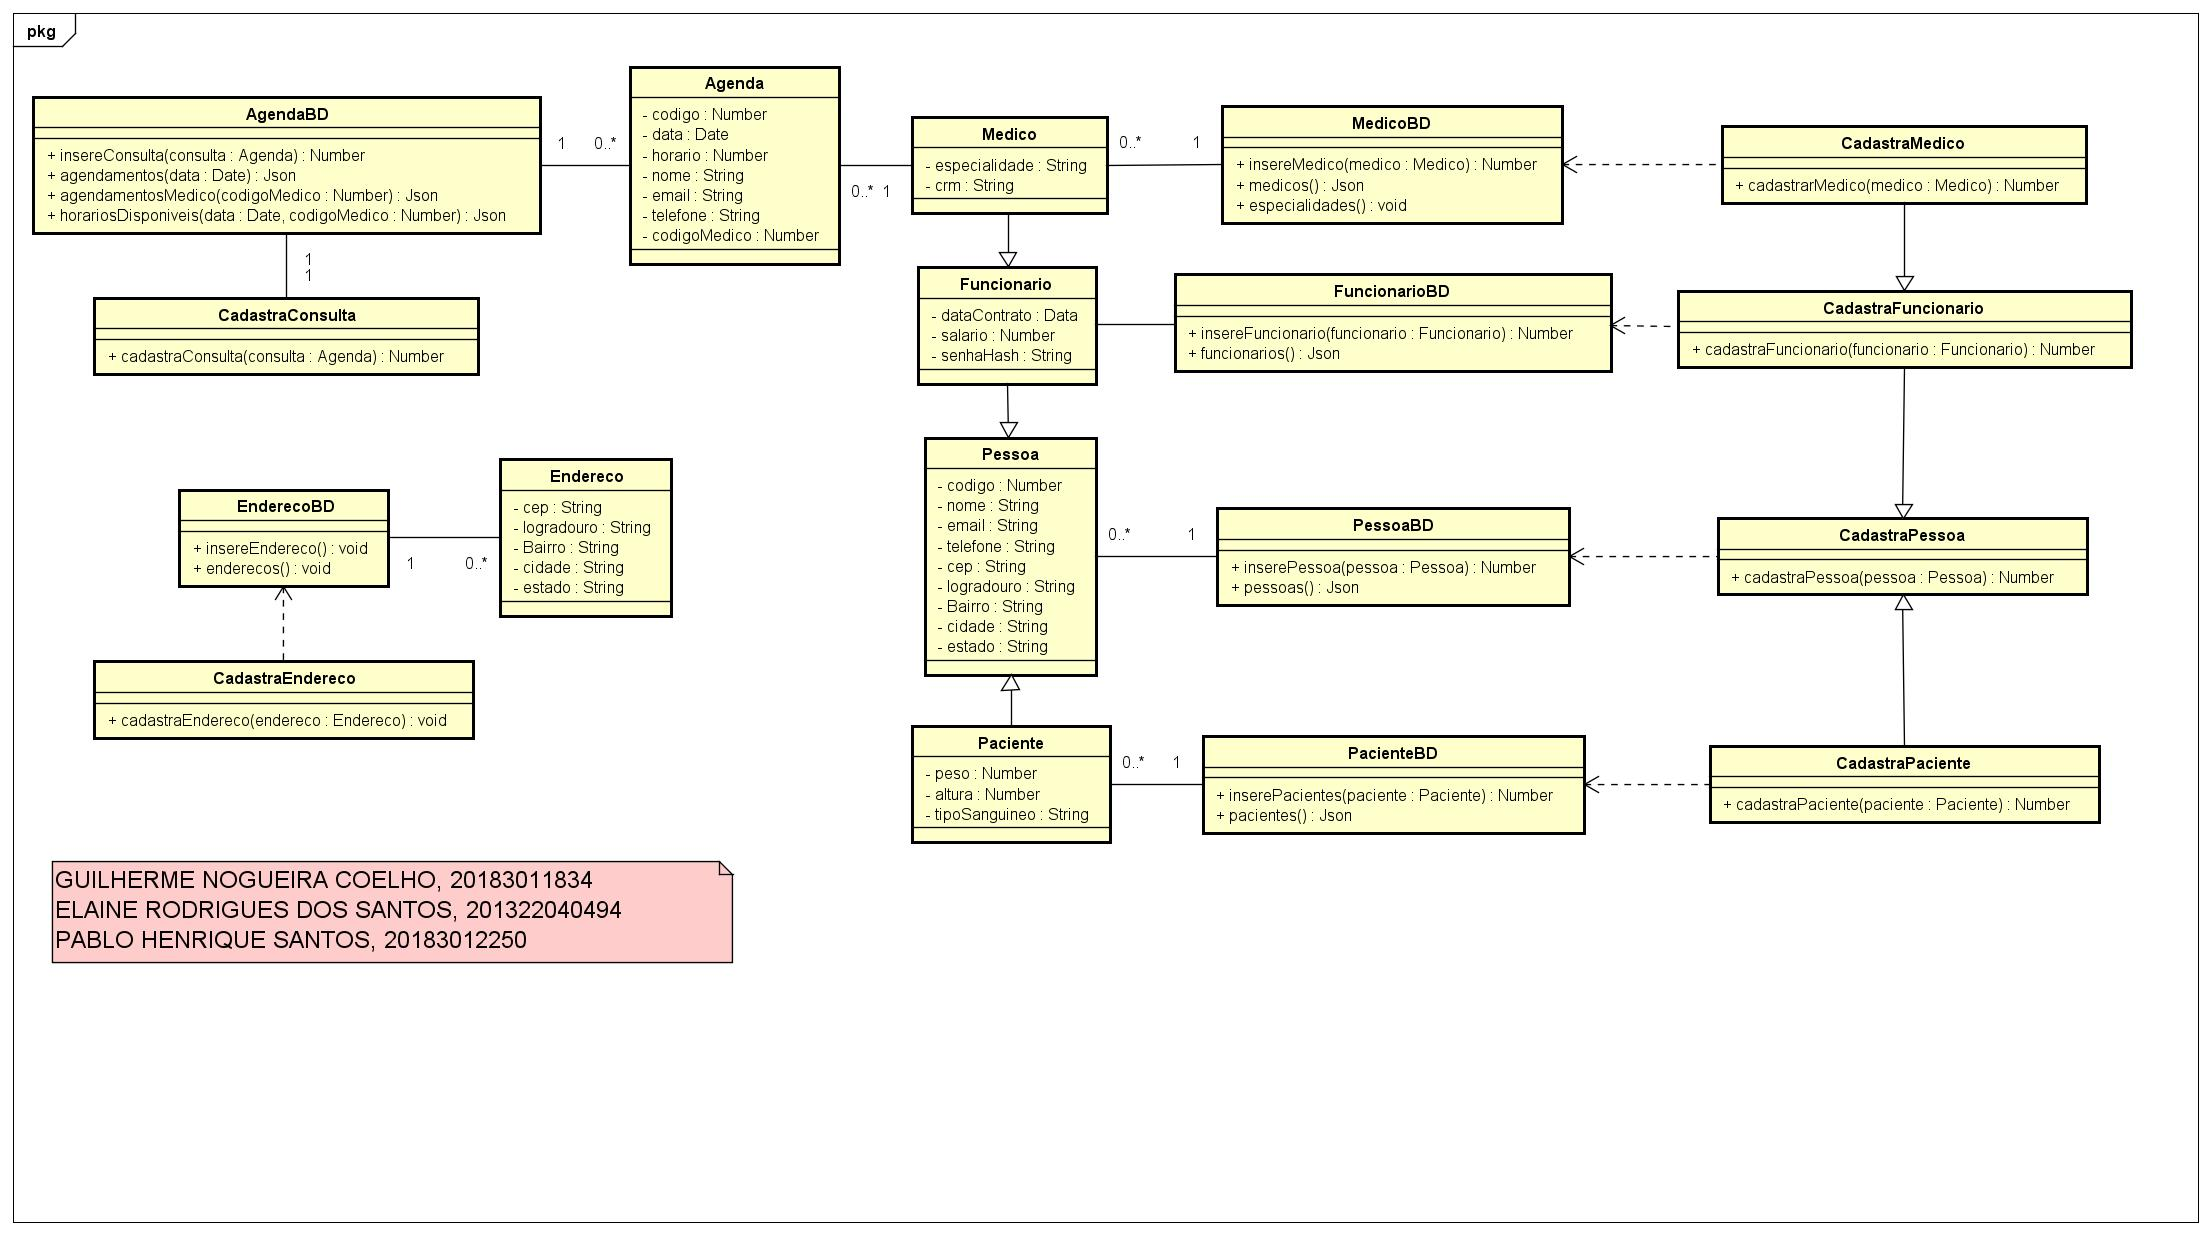
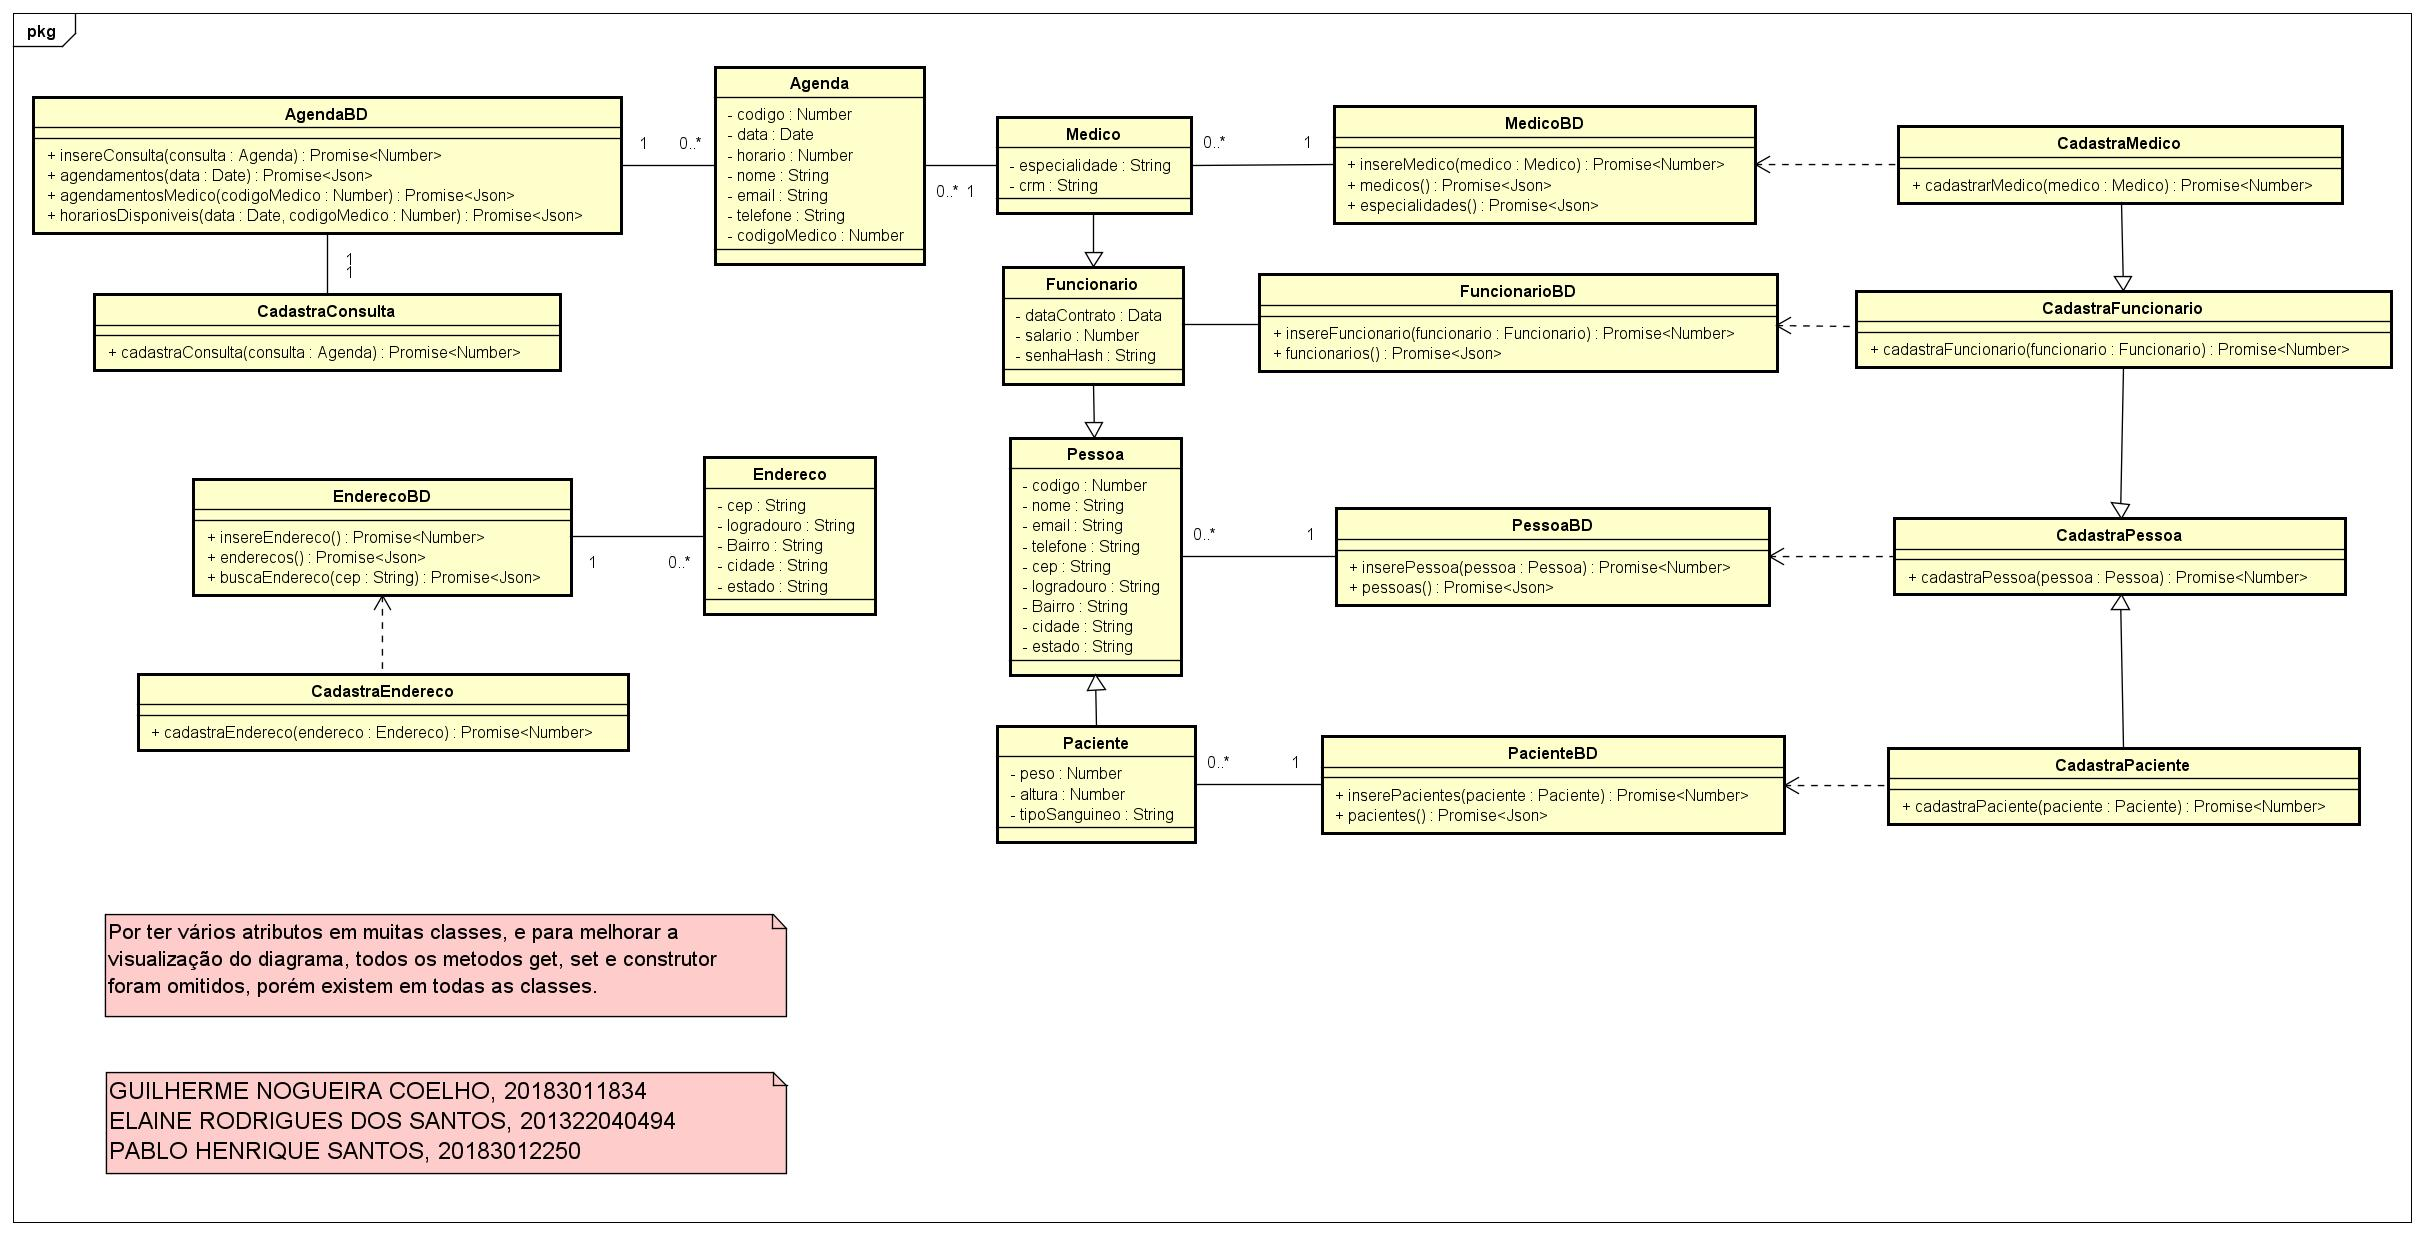
Alteração da imagem

diff --git a/TP2-Typescript/src/Models/EnderecoBD.ts b/TP2-Typescript/src/Models/EnderecoBD.ts
@@ -21,7 +21,7 @@ class EnderecoBD {
         }
     }
 
-    async buscaEndereco(cep:String){
+    async buscaEndereco(cep:String): Promise<JSON> {
         const values = [cep]
         const query = 'select * from endereco where cep=$1';
 
@@ -35,7 +35,7 @@ class EnderecoBD {
         } 
     }
 
-    async insereEndereco(endereco:Endereco) {
+    async insereEndereco(endereco:Endereco): Promise<String> {
         let values = [
             endereco.getCep(),
             endereco.getLogradouro(),
